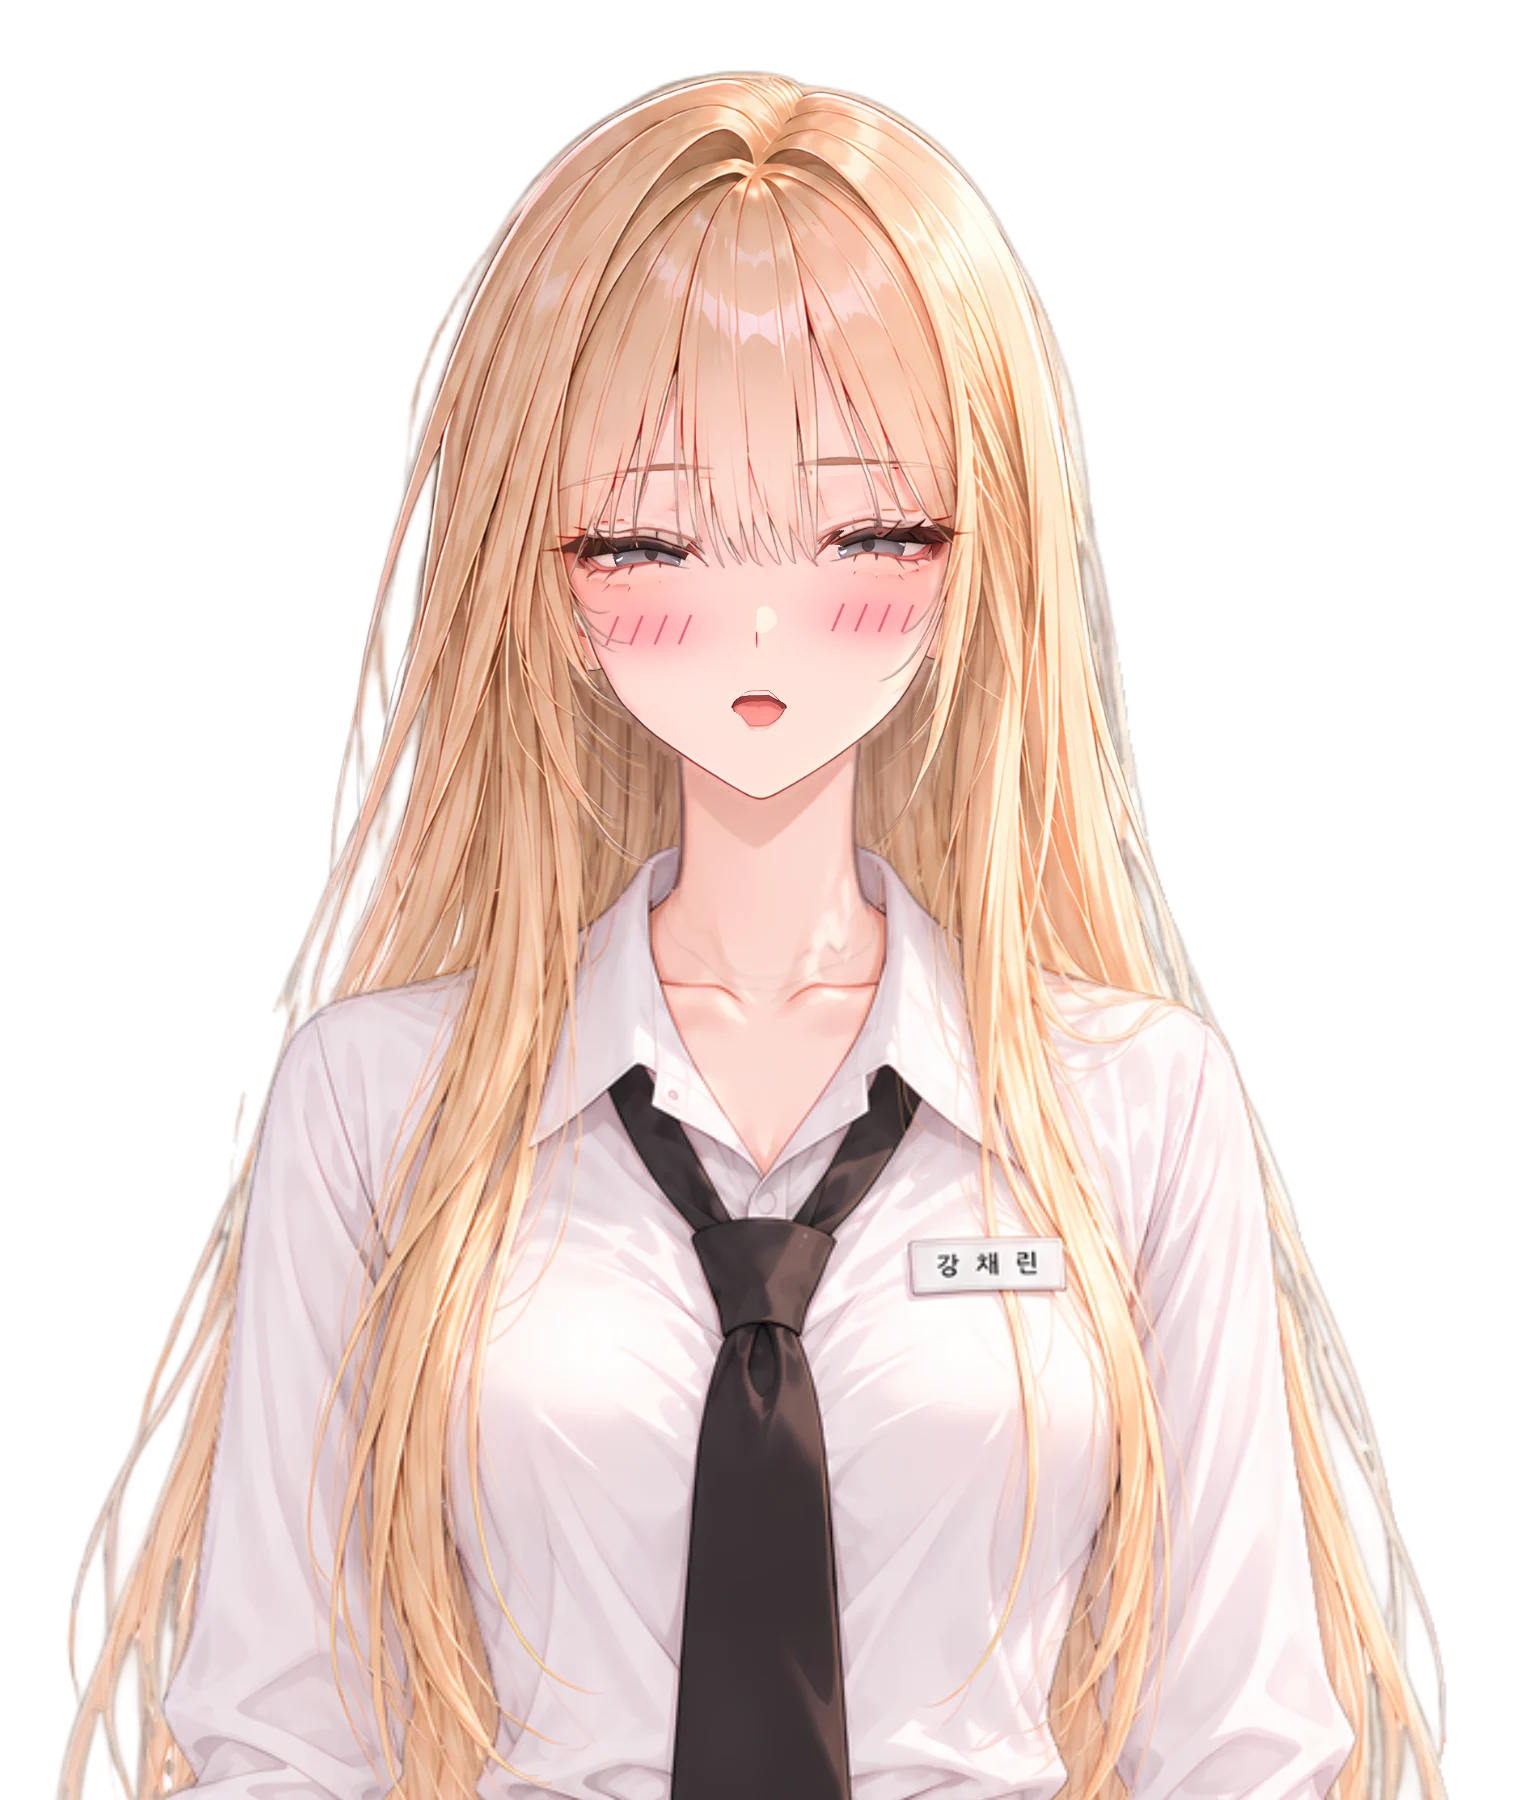
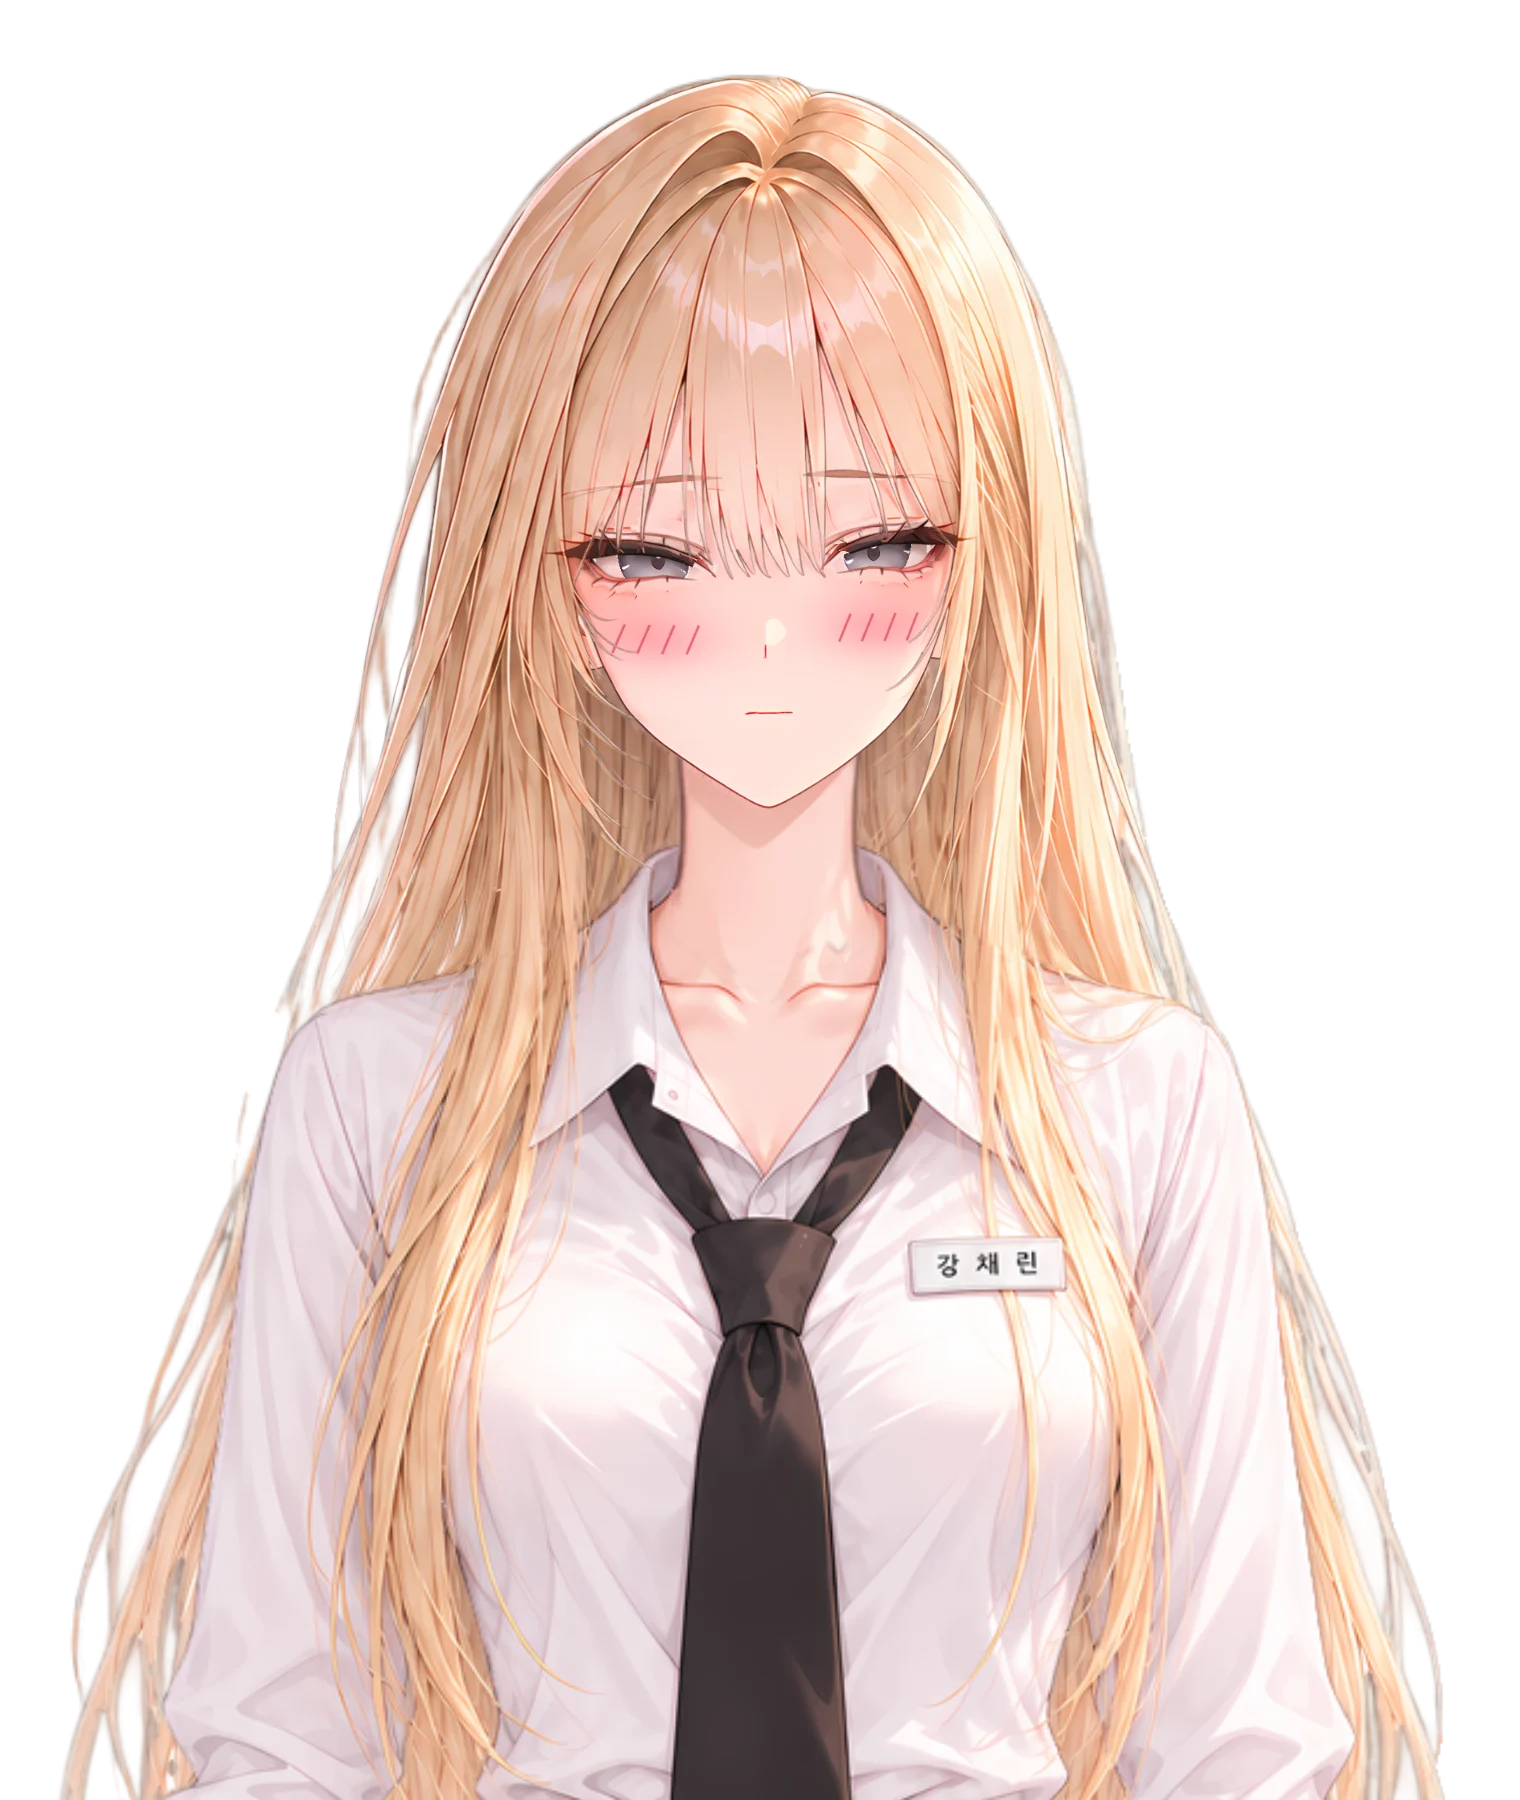
CHORE: 채린 로컬 모델을 chaerin-v3(상의·목 그림 변경)로 교체, 정지 이미지 재렌더
- 로컬 mock 모델·엔진 주소를 chaerin-v3로, 개발 서버 v3 마운트 추가(v2 마운트는 유지)
- hero·card·avatar·full·doze·표정 썸네일·상반신 22개를 같은 이름·크기·구도로 v3 재렌더(3.24MB → 3.11MB)
- 백엔드에 v3 묶음 전달 필요 메모(MATE_MODEL_V2_CONTRACT)

diff --git a/server/local-assets.ts b/server/local-assets.ts
@@ -4,7 +4,7 @@ import type { Plugin } from 'vite'
 
 type Mount = { prefix: string; dir: string; allow: RegExp }
 
-/** Aliving2D mate bundle (chaerin-v2, seojin): model.json, its part PNGs and the engine scripts. Exported for tests. */
+/** Aliving2D mate bundle (chaerin-v2, chaerin-v3, seojin): model.json, its part PNGs and the engine scripts. Exported for tests. */
 export const V2_MATE_ALLOW = /^\/(model\/model\.json|model\/parts\/\d{3}_[\w@-]+\.png|engine\/(engine|player)\.js|engine\/reactions\.default\.json)$/
 
 /** Exported for tests: the avatar mount's allowlist (paths relative to `/__local-assets/avatars`). */
@@ -14,7 +14,8 @@ export const AVATAR_ALLOW =
 /**
  * Runtime files only. Names are restricted to [\w@.-] segments, so no path can leave the folder.
  * - chaerin: Cubism bundle (legacy)
- * - chaerin-v2, seojin: Aliving2D bundles (model.json + part PNGs) and their engine scripts
+ * - chaerin-v3 (current 채린), chaerin-v2 (previous top / neck art, kept for comparison and for bundles that do not
+ *   have v3 yet), seojin: Aliving2D bundles (model.json + part PNGs) and their engine scripts
  * - avatars: the six Live2D sample avatars (Cubism). Only each model's `runtime/` folder (json, moc3, png; at most one
  *   sub-folder deep) and the generated thumbnails; never the editor sources (cmo3, can3, psd) next to it. Every segment
  *   starts with a letter, digit or `_`, so `.` and `..` cannot match.
@@ -24,6 +25,11 @@ const MOUNTS: readonly Mount[] = [
     prefix: '/__local-assets/chaerin',
     dir: '../local-assets/chaerin/',
     allow: /^\/(model\.model3\.json|files\/\d{3}\.(moc3|png|physics3\.json|cdi3\.json|exp3\.json))$/,
+  },
+  {
+    prefix: '/__local-assets/chaerin-v3',
+    dir: '../local-assets/chaerin-v3/',
+    allow: V2_MATE_ALLOW,
   },
   {
     prefix: '/__local-assets/chaerin-v2',
@@ -55,12 +61,13 @@ export function localAssetsPlugin(): Plugin {
   return {
     name: 'capsule-local-assets', apply: 'serve',
     configureServer(server) {
-      // Longer prefixes first so '/chaerin-v2' is not swallowed by '/chaerin'.
+      // Longer prefixes first so '/chaerin-v2' and '/chaerin-v3' are not swallowed by '/chaerin'.
       for (const mount of [...MOUNTS].sort((a, b) => b.prefix.length - a.prefix.length)) {
         const root = new URL(mount.dir, import.meta.url)
         server.middlewares.use(mount.prefix, (req, res, next) => {
           const path = (req.url ?? '').split('?')[0]
-          // connect strips the prefix; '/chaerin-v2/...' requests reaching the '/chaerin' mount start with '-v2'.
+          // connect strips the prefix; '/chaerin-v2/...' or '/chaerin-v3/...' requests reaching the '/chaerin' mount
+          // start with '-v2' / '-v3', not '/'.
           if (!path.startsWith('/')) return next()
           if (!mount.allow.test(path)) { res.statusCode = 404; res.end(); return }
           if (req.method !== 'GET' && req.method !== 'HEAD') return next()

diff --git a/tests/local-assets-mounts.test.ts b/tests/local-assets-mounts.test.ts
@@ -1,0 +1,38 @@
+import test from 'node:test'
+import assert from 'node:assert/strict'
+import { localAssetsPlugin } from '../server/local-assets.ts'
+
+type Handler = (req: { url?: string; method?: string }, res: { statusCode: number; end: () => void; setHeader: () => void }, next: () => void) => void
+
+function mounts() {
+  const used: { prefix: string; handler: Handler }[] = []
+  const plugin = localAssetsPlugin() as unknown as { configureServer: (server: unknown) => void }
+  plugin.configureServer({ middlewares: { use: (prefix: string, handler: Handler) => used.push({ prefix, handler }) } })
+  return used
+}
+
+test('chaerin-v3 and chaerin-v2 are mounted before /chaerin, so neither is swallowed by the shorter prefix', () => {
+  const order = mounts().map((m) => m.prefix)
+  const at = (prefix: string) => order.indexOf(prefix)
+  assert.ok(at('/__local-assets/chaerin-v3') >= 0, 'v3 is served')
+  assert.ok(at('/__local-assets/chaerin-v2') >= 0, 'v2 is still served')
+  assert.ok(at('/__local-assets/chaerin-v3') < at('/__local-assets/chaerin'))
+  assert.ok(at('/__local-assets/chaerin-v2') < at('/__local-assets/chaerin'))
+})
+
+test('a /chaerin-v3 request that reaches the /chaerin mount is passed on, not answered', () => {
+  const chaerin = mounts().find((m) => m.prefix === '/__local-assets/chaerin')!
+  let passed = false
+  let status = 0
+  // connect strips the mount prefix: '/__local-assets/chaerin-v3/model/model.json' arrives as '-v3/model/model.json'.
+  chaerin.handler({ url: '-v3/model/model.json', method: 'GET' }, { statusCode: 0, end: () => { status = 404 }, setHeader: () => {} }, () => { passed = true })
+  assert.equal(passed, true)
+  assert.equal(status, 0)
+})
+
+test('the v3 mount answers only the bundle allowlist', () => {
+  const v3 = mounts().find((m) => m.prefix === '/__local-assets/chaerin-v3')!
+  const res = { statusCode: 200, end: () => {}, setHeader: () => {} }
+  v3.handler({ url: '/model/../../secret.txt', method: 'GET' }, res, () => {})
+  assert.equal(res.statusCode, 404)
+})

diff --git a/src/features/local-demo/local-asset-urls.ts b/src/features/local-demo/local-asset-urls.ts
@@ -4,12 +4,16 @@
  * in a production bundle (checked by searching the build output).
  */
 export const LOCAL_MODEL_URL = '/__local-assets/chaerin/model.model3.json'
-export const LOCAL_V2_MODEL_URL = '/__local-assets/chaerin-v2/model/model.json'
-export const LOCAL_V2_ENGINE_URL = '/__local-assets/chaerin-v2/engine/engine.js'
-export const LOCAL_V2_PLAYER_URL = '/__local-assets/chaerin-v2/engine/player.js'
-export const LOCAL_V2_REACTIONS_URL = '/__local-assets/chaerin-v2/engine/reactions.default.json'
+/**
+ * 채린's v2-format (Aliving2D) bundle. Since 2026-11-25 the local one is `chaerin-v3` (new top and neck art; same
+ * parts, expressions, outfits, motions and engine as `chaerin-v2`). The `V2` in the names is the model format.
+ */
+export const LOCAL_V2_MODEL_URL = '/__local-assets/chaerin-v3/model/model.json'
+export const LOCAL_V2_ENGINE_URL = '/__local-assets/chaerin-v3/engine/engine.js'
+export const LOCAL_V2_PLAYER_URL = '/__local-assets/chaerin-v3/engine/player.js'
+export const LOCAL_V2_REACTIONS_URL = '/__local-assets/chaerin-v3/engine/reactions.default.json'
 
-/** 서도현's v2 bundle (model folder `seojin`; the engine files are byte-identical to chaerin-v2's). */
+/** 서도현's v2 bundle (model folder `seojin`; the engine files are byte-identical to chaerin-v2/v3's). */
 export const LOCAL_DOHYUN_V2_MODEL_URL = '/__local-assets/seojin/model/model.json'
 export const LOCAL_DOHYUN_V2_ENGINE_URL = '/__local-assets/seojin/engine/engine.js'
 export const LOCAL_DOHYUN_V2_PLAYER_URL = '/__local-assets/seojin/engine/player.js'

diff --git a/tests/local-transport.test.ts b/tests/local-transport.test.ts
@@ -23,8 +23,8 @@ test('local transport covers the real client boundary and never forwards API or 
     const { data } = await start.json(), path = `/sessions/${data.sessionId}`
     // v2 (Aliving2D) model in the draft contract shape (docs/MATE_MODEL_V2_CONTRACT.md)
     assert.equal(data.character.format, 'aliving2d')
-    assert.equal(data.character.modelJsonUrl, '/__local-assets/chaerin-v2/model/model.json')
-    assert.equal(data.character.engineUrl, '/__local-assets/chaerin-v2/engine/engine.js')
+    assert.equal(data.character.modelJsonUrl, '/__local-assets/chaerin-v3/model/model.json')
+    assert.equal(data.character.engineUrl, '/__local-assets/chaerin-v3/engine/engine.js')
     const event = await (await request(`${path}/events`, { type: 'FOCUS', occurredAt: new Date().toISOString() })).json()
     // Faces come as the v2 Korean label, like the backend seed (live2d_expressions.name)
     assert.deepEqual(event.data.characters[0].expression, { name: '집중' })

diff --git a/local-assets/README.md b/local-assets/README.md
@@ -5,12 +5,14 @@
 | 폴더 | 내용 | 쓰는 화면 (2026-11-24) |
 |---|---|---|
 | `chaerin/` | 옛 채린. Cubism(`model.model3.json`, `files/000.moc3`, 텍스처, physics/CDI, 표정 004~011) | 연결 화면, PIP. v2로 옮기는 중 |
-| `chaerin-v2/` | 새 채린. Aliving2D 자체 형식(`model/model.json`, `model/parts/*.png`)과 엔진(`engine/engine.js`, `player.js`, `reactions.default.json`) | 로그인 「채린 깨우기」, 내 메이트·메이트 상세·연결 기록 미리보기 |
+| `chaerin-v3/` | **현재 채린**(2026-11-25). Aliving2D 자체 형식(`model/model.json`, `model/parts/*.png`)과 엔진(`engine/engine.js`, `player.js`, `reactions.default.json`). v2와 파츠·표정·의상·모션·엔진이 같고 **상의·목 그림**(`002_topwear`, `003_topwear@oc4ad1`, `004_neck`, `005_neck@oc4ad1`)과 `model.json`만 다름 | 로그인 「졸던 채린 깨우기」, 홈·내 메이트·메이트 상세·연결·PIP·연결 기록 |
+| `chaerin-v2/` | 이전 채린(옛 상의). v3와 같은 형식 | 앱은 더 쓰지 않음. 개발 서버는 비교용으로 계속 제공(`/__local-assets/chaerin-v2`) |
 | `seojin/` | 서도현(두 번째 메이트, 화면 이름 서도현·id `dohyun`). Aliving2D(`model/model.json`, `model/parts/*.png`)와 엔진(`engine/engine.js`, `player.js`, `reactions.default.json`, 채린 v2와 바이트 동일) | 홈·메이트 상세·내 메이트·연결·PIP·연결 기록 (2026-11-25) |
 | `avatars/` | 사용자 아바타용 Live2D 무료 샘플 6종(Cubism). 각 모델의 `runtime/` 폴더만 제공: `hiyori_ko/hiyori_pro`, `haru_greeter_ja`, `natori_ko`, `chitose_ja`, `epsilon_ja/epsilon_pro`, `wanko_ja`. `thumbnails/*.png`는 `scripts/capture-avatar-thumbnails.mjs`가 만든다(없으면 실루엣) | 가입 1단계 아바타 고르기, 계정 설정 프로필 탭 (2026-11-25) |
 
-- 개발 서버 플러그인 `server/local-assets.ts`가 `/__local-assets/chaerin/*`, `/__local-assets/chaerin-v2/*`, `/__local-assets/seojin/*`, `/__local-assets/avatars/*`에서 **허용 목록에 있는 런타임 파일만** 제공한다. `avatars`는 고른 변형의 `runtime/` 안 json·moc3·png와 `thumbnails/*.png`만 열고, cmo3·can3·psd 같은 원본 작업 파일은 열지 않는다. `public/` 밖에 두므로 운영 빌드에는 들어가지 않는다.
+- 개발 서버 플러그인 `server/local-assets.ts`가 `/__local-assets/chaerin/*`, `/__local-assets/chaerin-v3/*`, `/__local-assets/chaerin-v2/*`, `/__local-assets/seojin/*`, `/__local-assets/avatars/*`에서 **허용 목록에 있는 런타임 파일만** 제공한다. `avatars`는 고른 변형의 `runtime/` 안 json·moc3·png와 `thumbnails/*.png`만 열고, cmo3·can3·psd 같은 원본 작업 파일은 열지 않는다. `public/` 밖에 두므로 운영 빌드에는 들어가지 않는다.
 - 코드에서 쓰는 주소: `src/features/local-demo/local-asset-urls.ts`의 `LOCAL_MODEL_URL`, `LOCAL_V2_*_URL`, 아바타는 `src/features/local-demo/local-avatars.ts`의 `LOCAL_AVATARS`(구도 값 포함)
+- 채린 정지 이미지 다시 만들기(저장소의 `src/assets/characters/chaerin-v2/`, 폴더 이름은 그대로 두고 v3로 렌더): `PLAYWRIGHT_MODULE=… node scripts/render-mate-stills.mjs http://127.0.0.1:5231 chaerin-v3 <임시 폴더>` 뒤 `chaerin-v3-*.webp`를 `chaerin-v2-*.webp` 이름으로 바꿔 넣기(같은 크기·구도, 품질 0.86/0.92). 졸기 정지 이미지는 [README](../src/assets/characters/chaerin-v2/README.md#로그인-조는-모습-chaerin-v2-dozewebp)
 - 서도현 정지 이미지 다시 만들기(저장소의 `src/assets/characters/seojin/`): `PLAYWRIGHT_MODULE=… node scripts/render-mate-stills.mjs http://127.0.0.1:5231 seojin src/assets/characters/seojin`
 - 아바타 썸네일 만들기: 개발 서버(mock)를 띄운 뒤 `PLAYWRIGHT_MODULE=… node scripts/capture-avatar-thumbnails.mjs http://127.0.0.1:5231`. 결과는 `local-assets/avatars/thumbnails/<key>.png`(머리·어깨, 투명 PNG)
 - 아바타 모델은 Live2D 「무상 제공 마테리얼」이다. 표기 의무와 개별 조건은 [상업 이용 기록](../docs/REFERENCE_COMMERCIAL_USE.md)을 따른다. 모델 색·모양을 바꾸지 않는다.
@@ -22,7 +24,8 @@
 ```bash
 ./install.sh <Front_Web 경로>   # local-assets/chaerin, chaerin-v2 복사와 필수 파일 확인
 npm run dev                     # VITE_DATA_SOURCE=mock
-# http://localhost:3000/__local-assets/chaerin-v2/model/model.json 이 열리면 성공
+# http://localhost:3000/__local-assets/chaerin-v3/model/model.json 이 열리면 성공
+# (chaerin-v3는 2026-11-25 묶음부터. 없으면 채린은 정지 이미지로 나옴)
 ```
 
 ## 저장소에 올리지 않음

diff --git a/docs/MATE_MODEL_V2_CONTRACT.md b/docs/MATE_MODEL_V2_CONTRACT.md
@@ -102,8 +102,12 @@
 - 정지 이미지(카드·히어로·아바타·전신, 표정 썸네일·흉상)는 모델 렌더 임시본이에요(`src/assets/characters/seojin/`, 채린 v2와 같은 뷰). 정식 일러스트가 오면 교체해요. 서버 `profileImageUrl`도 같은 카드 구도(머리→가슴, 4:3)면 맞아요.
 - 시스템 프롬프트·세계관·키워드북은 서버 페르소나예요. 프런트에는 표시 문구(소개·역할·시작 상황·첫 대사)와 로컬 mock 대사만 있어요.
 
+## 채린 모델 v3 (2026-11-25)
+
+- 채린 모델 v3(상의 변경) — 백엔드에 v3 묶음 전달 필요. 같은 형식·파츠·표정·의상·엔진이고 상의·목 그림과 `model.json`만 바뀌었어요. 앱의 채린 정지 이미지(`src/assets/characters/chaerin-v2/`, 폴더 이름 유지)는 v3로 다시 렌더했으니, 운영 `modelJsonUrl`도 v3를 가리켜야 Live2D와 정지 이미지의 옷이 같아요.
+
 ## 로컬 mock
 
-- 미리보기: `src/features/local-demo/ports.ts`가 캐릭터 id에 맞는 `LOCAL_V2_MODELS`(`/__local-assets/chaerin-v2/...`, `/__local-assets/seojin/...`)를 위 형태로 돌려줘요.
+- 미리보기: `src/features/local-demo/ports.ts`가 캐릭터 id에 맞는 `LOCAL_V2_MODELS`(`/__local-assets/chaerin-v3/...`, `/__local-assets/seojin/...`)를 위 형태로 돌려줘요.
 - 연결: `src/features/local-demo/transport.ts`가 세션 `character`에 같은 필드를 넣고, 이벤트·반응·대화 응답에 백엔드 시드와 같은 한국어 표정 이름(`집중`, `삐짐`, `웃음` …)과 짧은 대사를 넣어요.
 - dev 서버(`server/local-assets.ts`)에서만 제공되며 운영 번들에는 `__local-assets` 경로가 없어요(빌드 결과 검색으로 확인).

diff --git a/src/assets/characters/chaerin-v2/README.md b/src/assets/characters/chaerin-v2/README.md
@@ -1,6 +1,9 @@
 # 채린 정지 이미지 (새 모델 Aliving2D, chaerin-v2)
 
-`local-assets/chaerin-v2` 모델을 팀 엔진으로 기본 포즈·기본 의상·투명 배경에서 렌더한 이미지예요(원본 모델·엔진은 포함하지 않음). 2배 해상도.
+`local-assets/chaerin-v3` 모델(2026-11-25, 상의·목 그림이 바뀐 채린)을 팀 엔진으로 기본 포즈·기본 의상·투명 배경에서 렌더한 이미지예요(원본 모델·엔진은 포함하지 않음). 2배 해상도.
+폴더·파일 이름의 `v2`는 모델 형식(Aliving2D v2)을 뜻해요. 코드 import를 바꾸지 않으려고 v3 렌더도 같은 이름으로 두었어요.
+
+이 폴더의 그림은 모두 **모델 렌더**예요. 채린이 나오는 **일러스트**(다시 렌더하지 않음)는 따로 있어요: `../chaerin-call-bg/`(방 배경, 캐릭터 없음), `src/assets/welcome-banners/chaerin-banner-v1.*`, `src/assets/reports/completion-*/chaerin-*`.
 
 | 파일 | 표시 크기(1x) | 구도 | 이전 파일(대체 대상) |
 |---|---|---|---|
